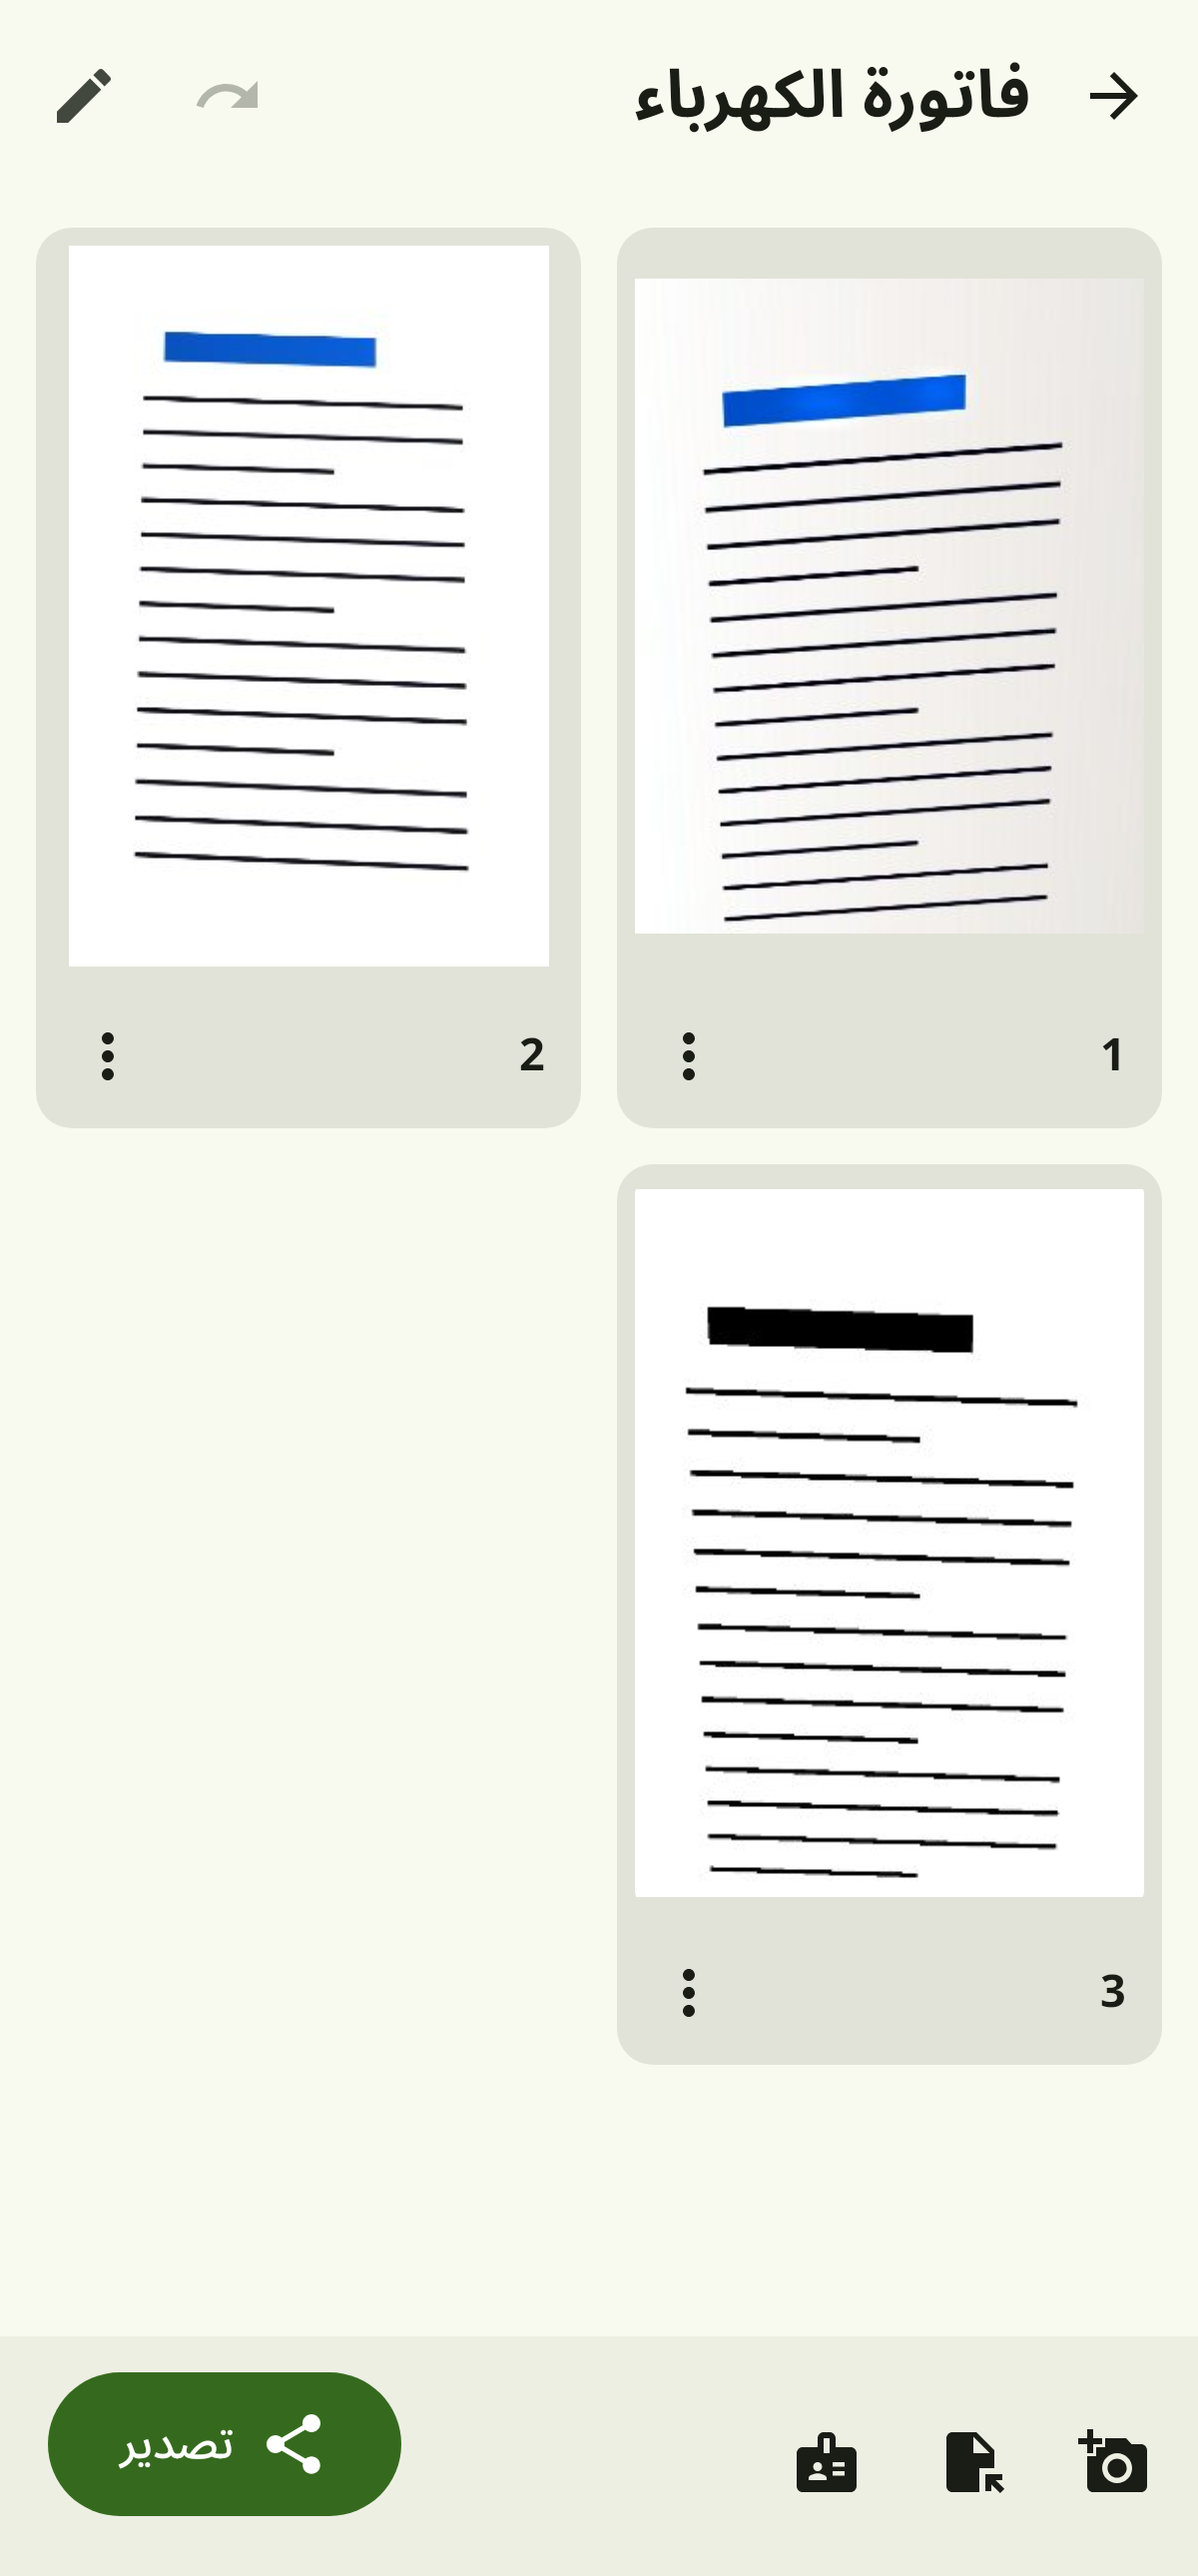
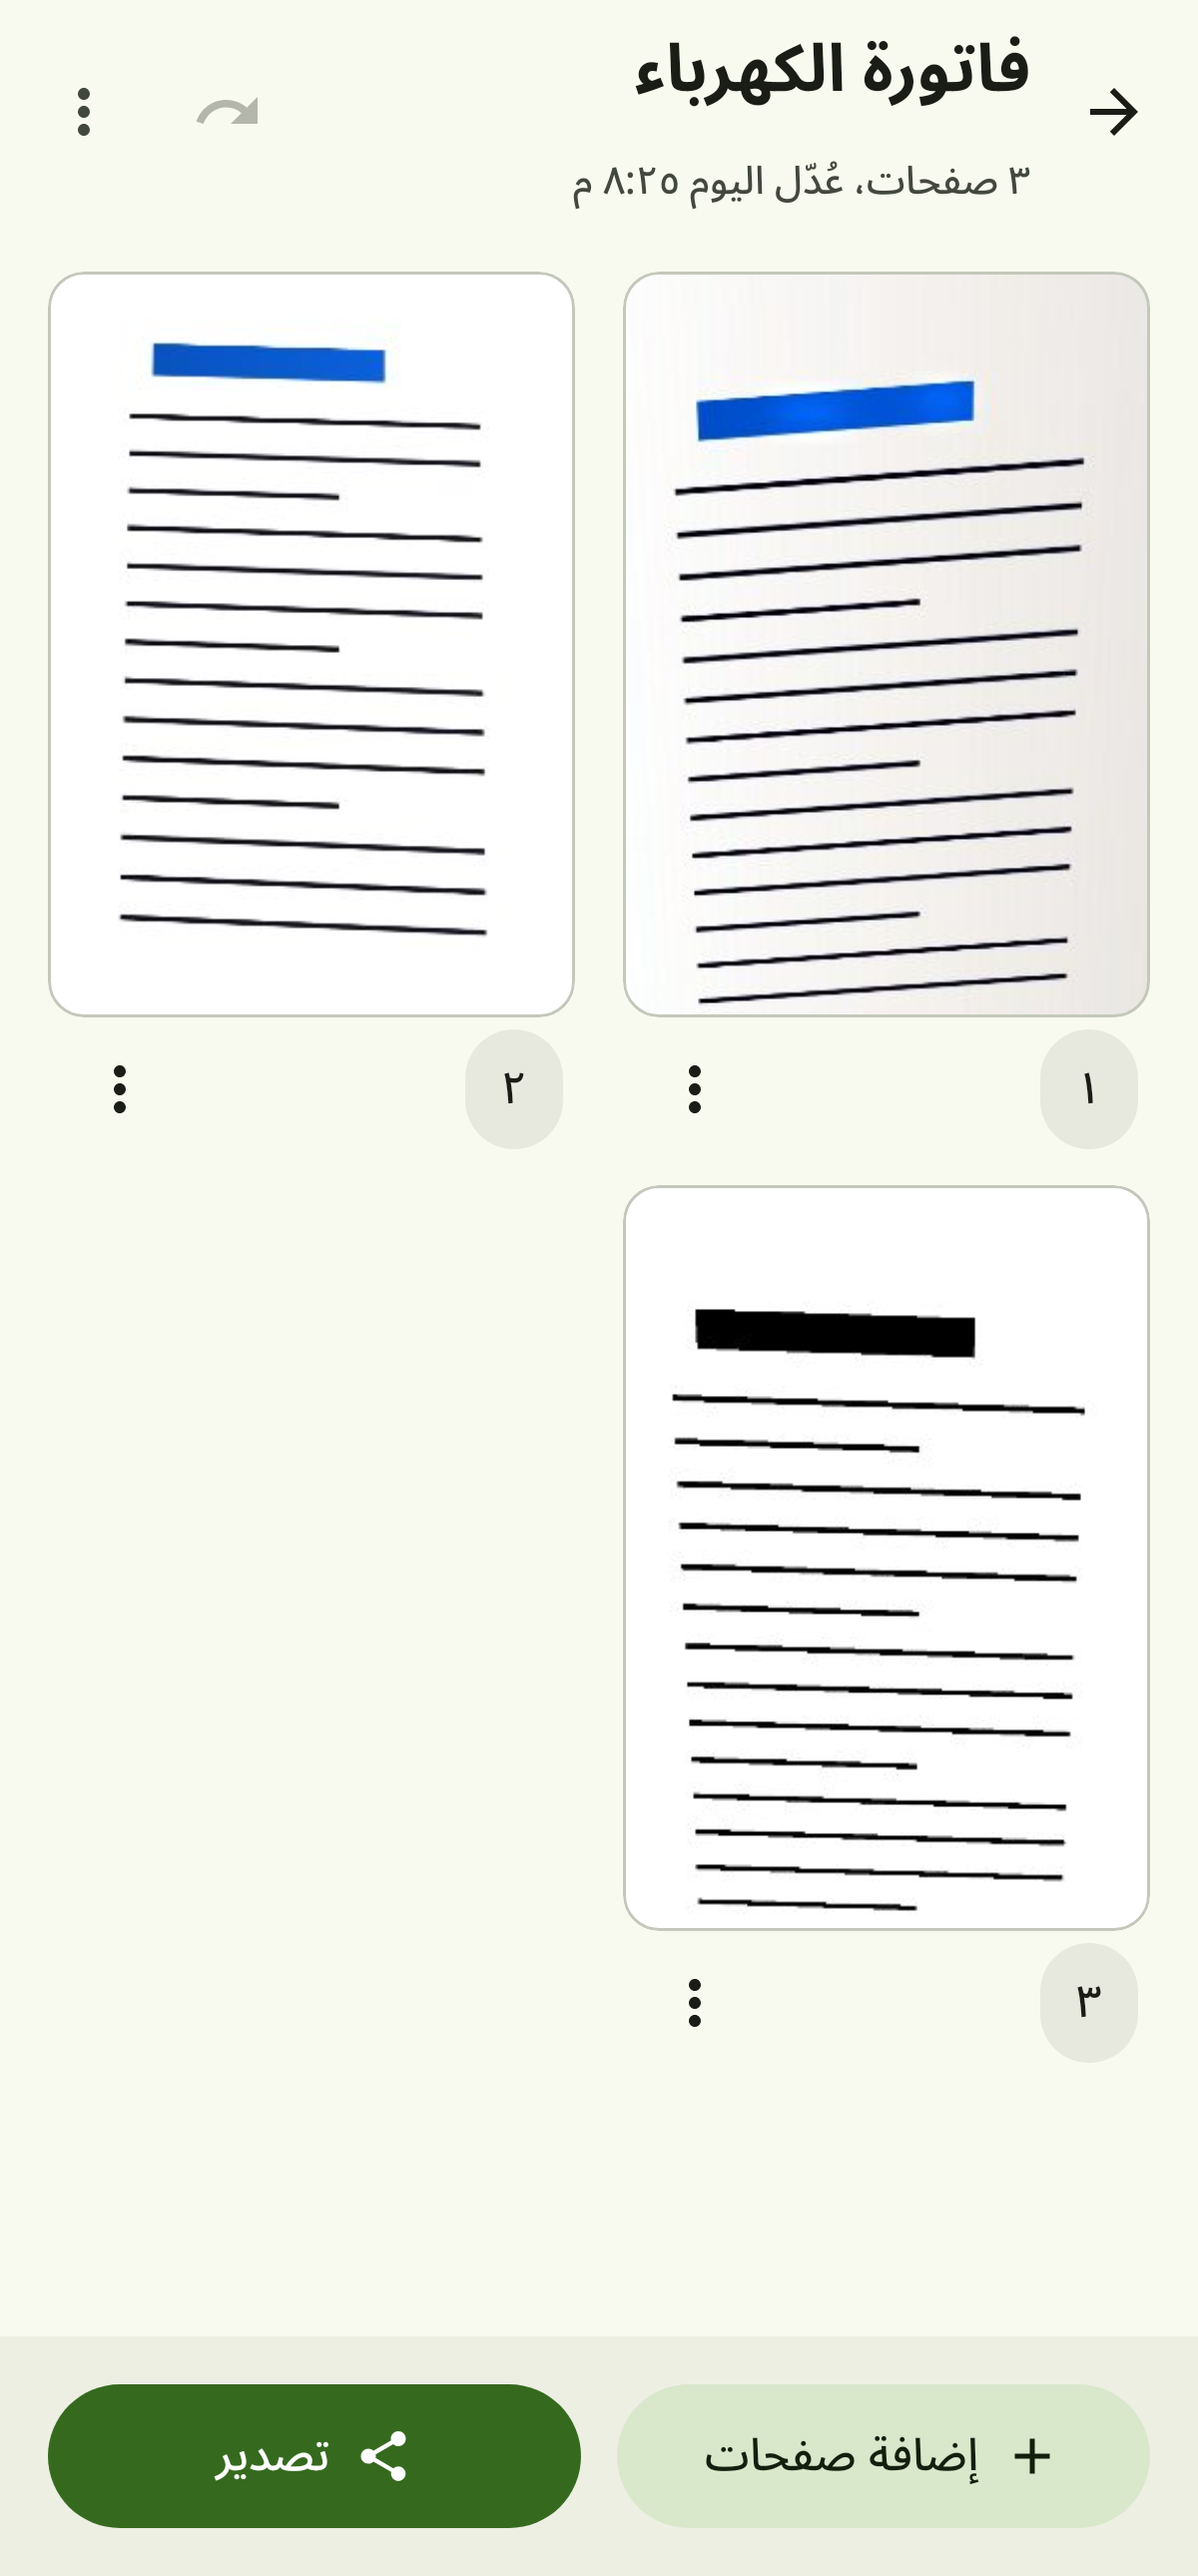
Design step 6: document grid without cards, Add pages sheet, Export as primary
Top bar with subtitle (pages, edited date), undo and a document menu
(rename, delete). Tiles are white bordered pages with a locale-digit number
chip and a menu. Bottom bar: tonal «إضافة صفحات» (sheet: take photos,
import, ID card) and the primary «تصدير».

diff --git a/app/src/main/java/com/fastkiwi/scan/ui/EditorScreen.kt b/app/src/main/java/com/fastkiwi/scan/ui/EditorScreen.kt
@@ -44,6 +44,7 @@ import androidx.compose.material.icons.filled.Visibility
 import androidx.compose.material.icons.filled.VisibilityOff
 import androidx.compose.material3.BottomAppBar
 import androidx.compose.material3.Button
+import androidx.compose.material3.FilledTonalButton
 import androidx.compose.material3.Card
 import androidx.compose.material3.DropdownMenu
 import androidx.compose.material3.DropdownMenuItem
@@ -72,6 +73,10 @@ import androidx.compose.runtime.remember
 import androidx.compose.runtime.setValue
 import androidx.compose.ui.Alignment
 import androidx.compose.ui.Modifier
+import androidx.compose.ui.platform.LocalContext
+import androidx.compose.foundation.layout.size
+import androidx.compose.foundation.shape.CircleShape
+import com.fastkiwi.scan.ui.theme.Dimens
 import androidx.compose.ui.draw.clip
 import androidx.compose.ui.res.pluralStringResource
 import androidx.compose.ui.res.stringResource
@@ -91,6 +96,7 @@ import com.fastkiwi.scan.export.ExportOptions
 import com.fastkiwi.scan.export.Quality
 import com.fastkiwi.scan.ocr.OcrLanguage
 
+/** Document page grid (design spec §3.4): «إضافة صفحات» and the primary «تصدير» at the bottom. */
 @OptIn(ExperimentalMaterial3Api::class)
 @Composable
 fun EditorScreen(vm: AppViewModel, docId: String, snackbar: SnackbarHostState) {
@@ -98,6 +104,10 @@ fun EditorScreen(vm: AppViewModel, docId: String, snackbar: SnackbarHostState) {
     val doc = docs.firstOrNull { it.doc.id == docId }?.doc ?: vm.doc(docId)
     var rename by remember { mutableStateOf(false) }
     var showExport by remember { mutableStateOf(false) }
+    var showAdd by remember { mutableStateOf(false) }
+    var menu by remember { mutableStateOf(false) }
+    var confirmDelete by remember { mutableStateOf(false) }
+    val ctx = LocalContext.current
 
     val importLauncher = rememberLauncherForActivityResult(ActivityResultContracts.OpenMultipleDocuments()) { uris ->
         vm.importUris(docId, uris) {}
@@ -107,45 +117,45 @@ fun EditorScreen(vm: AppViewModel, docId: String, snackbar: SnackbarHostState) {
         Text(stringResource(R.string.doc_missing), Modifier.padding(32.dp))
         return
     }
+    val subtitle = pluralStringResource(R.plurals.page_count, doc.pages.size, doc.pages.size) +
+        LocalFormat.metaSep(ctx.resources.configuration.locales[0]) +
+        stringResource(R.string.modified_at, LocalFormat.docDate(ctx, doc.modified))
 
     Scaffold(
         snackbarHost = { SnackbarHost(snackbar) },
         topBar = {
-            TopAppBar(
-                navigationIcon = {
-                    IconButton(onClick = { vm.back() }) { Icon(Icons.AutoMirrored.Filled.ArrowBack, stringResource(R.string.back)) }
-                },
-                title = {
-                    Text(
-                        doc.name, maxLines = 1, overflow = TextOverflow.Ellipsis,
-                        modifier = Modifier.clickable(onClickLabel = stringResource(R.string.rename)) { rename = true },
-                    )
-                },
-                actions = {
-                    IconButton(onClick = { vm.undo(docId) }, enabled = (vm.undoCounts[docId] ?: 0) > 0) {
-                        Icon(Icons.AutoMirrored.Filled.Undo, stringResource(R.string.undo))
+            KiwiTopBar(
+                doc.name, NavIcon.BACK, { vm.back() }, subtitle = subtitle,
+                titleModifier = Modifier.clickable(onClickLabel = stringResource(R.string.rename)) { rename = true },
+            ) {
+                TooltipIconButton(KiwiIcons.undo(), stringResource(R.string.undo), { vm.undo(docId) }, enabled = (vm.undoCounts[docId] ?: 0) > 0)
+                Box {
+                    TooltipIconButton(KiwiIcons.more(), stringResource(R.string.more_options), { menu = true })
+                    DropdownMenu(expanded = menu, onDismissRequest = { menu = false }) {
+                        DropdownMenuItem(text = { Text(stringResource(R.string.rename)) }, onClick = { menu = false; rename = true })
+                        DropdownMenuItem(
+                            text = { Text(stringResource(R.string.delete_document), color = MaterialTheme.colorScheme.error) },
+                            onClick = { menu = false; confirmDelete = true },
+                        )
                     }
-                    IconButton(onClick = { rename = true }) { Icon(Icons.Filled.Edit, stringResource(R.string.rename)) }
-                },
-            )
+                }
+            }
         },
         bottomBar = {
-            BottomAppBar(
-                actions = {
-                    IconButton(onClick = { vm.open(Screen.Camera(docId)) }) { Icon(Icons.Filled.AddAPhoto, stringResource(R.string.add_page_camera)) }
-                    IconButton(onClick = { importLauncher.launch(arrayOf("image/*", "application/pdf")) }) {
-                        Icon(Icons.Filled.FileOpen, stringResource(R.string.import_files))
-                    }
-                    IconButton(onClick = { vm.open(Screen.Camera(docId, idCard = true)) }) { Icon(Icons.Filled.Badge, stringResource(R.string.id_card_mode)) }
-                },
-                floatingActionButton = {
-                    Button(onClick = { showExport = true }, enabled = doc.pages.isNotEmpty()) {
-                        Icon(Icons.Filled.Share, null)
-                        Spacer(Modifier.width(8.dp))
-                        Text(stringResource(R.string.export))
-                    }
-                },
-            )
+            BottomActionBar {
+                ButtonPair(
+                    secondary = { m ->
+                        FilledTonalButton(onClick = { showAdd = true }, modifier = m) {
+                            Icon(KiwiIcons.add(), null, Modifier.size(20.dp)); Spacer(Modifier.width(Dimens.s)); Text(stringResource(R.string.add_pages))
+                        }
+                    },
+                    primary = { m ->
+                        Button(onClick = { showExport = true }, enabled = doc.pages.isNotEmpty(), modifier = m) {
+                            Icon(KiwiIcons.share(), null, Modifier.size(20.dp)); Spacer(Modifier.width(Dimens.s)); Text(stringResource(R.string.export))
+                        }
+                    },
+                )
+            }
         },
     ) { padding ->
         if (doc.pages.isEmpty()) {
@@ -154,11 +164,11 @@ fun EditorScreen(vm: AppViewModel, docId: String, snackbar: SnackbarHostState) {
             }
         } else {
             LazyVerticalGrid(
-                columns = GridCells.Adaptive(150.dp),
+                columns = GridCells.Adaptive(160.dp),
                 modifier = Modifier.padding(padding).fillMaxSize(),
-                contentPadding = PaddingValues(12.dp),
-                horizontalArrangement = Arrangement.spacedBy(12.dp),
-                verticalArrangement = Arrangement.spacedBy(12.dp),
+                contentPadding = PaddingValues(Dimens.screen),
+                horizontalArrangement = Arrangement.spacedBy(Dimens.l),
+                verticalArrangement = Arrangement.spacedBy(Dimens.s),
             ) {
                 itemsIndexed(doc.pages, key = { _, p -> p.id }) { i, p ->
                     PageTile(vm, docId, i, doc.pages.size, p)
@@ -169,6 +179,41 @@ fun EditorScreen(vm: AppViewModel, docId: String, snackbar: SnackbarHostState) {
 
     if (rename) RenameDialog(doc.name, suggestion = vm.suggestName(docId), onDismiss = { rename = false }) { vm.rename(docId, it) }
     if (showExport) ExportSheet(vm, docId, onDismiss = { showExport = false })
+    if (showAdd) AddPagesSheet(
+        onDismiss = { showAdd = false },
+        onCamera = { showAdd = false; vm.open(Screen.Camera(docId)) },
+        onImport = { showAdd = false; importLauncher.launch(arrayOf("image/*", "application/pdf")) },
+        onIdCard = { showAdd = false; vm.open(Screen.Camera(docId, idCard = true)) },
+    )
+    if (confirmDelete) {
+        ConfirmDialog(
+            title = pluralStringResource(R.plurals.delete_docs_title, 1, 1),
+            body = stringResource(R.string.delete_docs_body),
+            confirm = stringResource(R.string.delete),
+            onDismiss = { confirmDelete = false },
+        ) {
+            vm.deleteDocs(setOf(docId))
+            vm.back()
+        }
+    }
+}
+
+/** «إضافة صفحات»: take photos (primary row), import images or PDF, ID card. */
+@OptIn(ExperimentalMaterial3Api::class)
+@Composable
+private fun AddPagesSheet(onDismiss: () -> Unit, onCamera: () -> Unit, onImport: () -> Unit, onIdCard: () -> Unit) {
+    ModalBottomSheet(onDismissRequest = onDismiss, containerColor = MaterialTheme.colorScheme.surfaceContainerLow) {
+        Column(Modifier.fillMaxWidth().padding(horizontal = Dimens.sheet).padding(bottom = Dimens.xl)) {
+            Text(stringResource(R.string.add_pages), style = MaterialTheme.typography.titleLarge, modifier = Modifier.padding(bottom = Dimens.l))
+            SettingsGroup(3) { i, shape ->
+                when (i) {
+                    0 -> SettingsRow(KiwiIcons.camera(), stringResource(R.string.take_pages), null, shape, onCamera, trailing = null)
+                    1 -> SettingsRow(KiwiIcons.import(), stringResource(R.string.import_files), null, shape, onImport, trailing = null)
+                    else -> SettingsRow(KiwiIcons.idCard(), stringResource(R.string.id_card_mode), null, shape, onIdCard, trailing = null)
+                }
+            }
+        }
+    }
 }
 
 @Composable
@@ -181,11 +226,12 @@ private fun PageTile(vm: AppViewModel, docId: String, index: Int, count: Int, pa
     val aCrop = stringResource(R.string.crop)
     val aRotate = stringResource(R.string.rotate_right)
     val aDelete = stringResource(R.string.delete)
-    Card(Modifier.fillMaxWidth()) {
-        Box(
+    Column(Modifier.fillMaxWidth()) {
+        PageThumbnail(
+            vm.store.thumbFile(docId, page.id), page.revision,
             Modifier
                 .fillMaxWidth()
-                .aspectRatio(0.72f)
+                .aspectRatio(1f / 1.414f)
                 .clickable(onClickLabel = stringResource(R.string.edit_page)) { vm.open(Screen.Page(docId, index)) }
                 .semantics {
                     contentDescription = label
@@ -197,13 +243,18 @@ private fun PageTile(vm: AppViewModel, docId: String, index: Int, count: Int, pa
                         add(CustomAccessibilityAction(aDelete) { vm.deletePage(docId, index); true })
                     }
                 },
-        ) {
-            FileImage(vm.store.thumbFile(docId, page.id), page.revision, 360, null, Modifier.fillMaxSize().padding(6.dp).clip(RoundedCornerShape(4.dp)))
-        }
-        Row(Modifier.fillMaxWidth().padding(start = 12.dp), verticalAlignment = Alignment.CenterVertically) {
-            Text((index + 1).toString(), Modifier.weight(1f), style = MaterialTheme.typography.titleSmall)
+            radius = 12,
+        )
+        Row(Modifier.fillMaxWidth().heightIn(min = 48.dp), verticalAlignment = Alignment.CenterVertically) {
+            Surface(color = MaterialTheme.colorScheme.surfaceContainerHigh, shape = CircleShape, modifier = Modifier.padding(start = Dimens.xs)) {
+                Text(
+                    LocalFormat.count(index + 1), style = MaterialTheme.typography.labelLarge,
+                    modifier = Modifier.padding(horizontal = Dimens.m, vertical = Dimens.xs),
+                )
+            }
+            Spacer(Modifier.weight(1f))
             Box {
-                IconButton(onClick = { menu = true }) { Icon(Icons.Filled.MoreVert, stringResource(R.string.page_actions, index + 1)) }
+                TooltipIconButton(KiwiIcons.more(), stringResource(R.string.page_actions, index + 1), { menu = true })
                 DropdownMenu(expanded = menu, onDismissRequest = { menu = false }) {
                     DropdownMenuItem(text = { Text(stringResource(R.string.move_earlier)) }, enabled = index > 0, onClick = { menu = false; vm.movePage(docId, index, index - 1) })
                     DropdownMenuItem(text = { Text(stringResource(R.string.move_later)) }, enabled = index < count - 1, onClick = { menu = false; vm.movePage(docId, index, index + 1) })
@@ -213,7 +264,10 @@ private fun PageTile(vm: AppViewModel, docId: String, index: Int, count: Int, pa
                     DropdownMenuItem(text = { Text(stringResource(R.string.crop)) }, onClick = { menu = false; vm.open(Screen.Crop(docId, page.id)) })
                     DropdownMenuItem(text = { Text(stringResource(R.string.signature)) }, onClick = { menu = false; vm.open(Screen.Sign(docId, page.id)) })
                     DropdownMenuItem(text = { Text(stringResource(R.string.retake)) }, onClick = { menu = false; vm.open(Screen.Camera(docId, retakePageId = page.id)) })
-                    DropdownMenuItem(text = { Text(stringResource(R.string.delete)) }, onClick = { menu = false; vm.deletePage(docId, index) })
+                    DropdownMenuItem(
+                        text = { Text(stringResource(R.string.delete), color = MaterialTheme.colorScheme.error) },
+                        onClick = { menu = false; vm.deletePage(docId, index) },
+                    )
                 }
             }
         }
